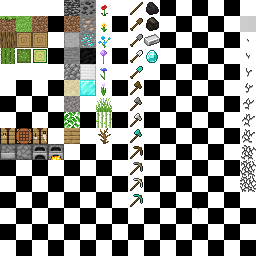
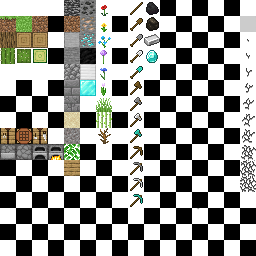
new blocks

Changed region(s): [[0.25, 0.3125, 0.3125, 0.6875]]

diff --git a/Includes/Inventory.hpp b/Includes/Inventory.hpp
@@ -1,8 +1,8 @@
 #ifndef INVENTORY_HPP
 # define INVENTORY_HPP
 
-# define IRECEIPT_SIZE 19
-# define RECEIPT_SIZE 62
+# define IRECEIPT_SIZE 20
+# define RECEIPT_SIZE 66
 
 const int ireceipt[IRECEIPT_SIZE][6] = {
 	{blocks::AIR, blocks::AIR, blocks::AIR, blocks::OAK_LOG, blocks::OAK_PLANKS, 4},
@@ -24,6 +24,7 @@ const int ireceipt[IRECEIPT_SIZE][6] = {
 	{blocks::OAK_PLANKS, blocks::AIR, blocks::OAK_PLANKS, blocks::AIR, blocks::STICK, 4},
 	{blocks::AIR, blocks::OAK_PLANKS, blocks::AIR, blocks::OAK_PLANKS, blocks::STICK, 4},
 	{blocks::OAK_PLANKS, blocks::OAK_PLANKS, blocks::OAK_PLANKS, blocks::OAK_PLANKS, blocks::CRAFTING_TABLE, 1},
+	{blocks::STONE, blocks::STONE, blocks::STONE, blocks::STONE, blocks::STONE_BRICKS, 4},
 };
 
 const int receipt[RECEIPT_SIZE][11] = {
@@ -48,6 +49,11 @@ const int receipt[RECEIPT_SIZE][11] = {
 	{blocks::AIR, blocks::OAK_PLANKS, blocks::OAK_PLANKS, blocks::AIR, blocks::OAK_PLANKS, blocks::OAK_PLANKS, blocks::AIR, blocks::AIR, blocks::AIR, blocks::CRAFTING_TABLE, 1},
 	{blocks::AIR, blocks::AIR, blocks::AIR, blocks::OAK_PLANKS, blocks::OAK_PLANKS, blocks::AIR, blocks::OAK_PLANKS, blocks::OAK_PLANKS, blocks::AIR, blocks::CRAFTING_TABLE, 1},
 	{blocks::AIR, blocks::AIR, blocks::AIR, blocks::AIR, blocks::OAK_PLANKS, blocks::OAK_PLANKS, blocks::AIR, blocks::OAK_PLANKS, blocks::OAK_PLANKS, blocks::CRAFTING_TABLE, 1},
+
+	{blocks::STONE, blocks::STONE, blocks::AIR, blocks::STONE, blocks::STONE, blocks::AIR, blocks::AIR, blocks::AIR, blocks::AIR, blocks::STONE_BRICKS, 4},
+	{blocks::AIR, blocks::STONE, blocks::STONE, blocks::AIR, blocks::STONE, blocks::STONE, blocks::AIR, blocks::AIR, blocks::AIR, blocks::STONE_BRICKS, 4},
+	{blocks::AIR, blocks::AIR, blocks::AIR, blocks::STONE, blocks::STONE, blocks::AIR, blocks::STONE, blocks::STONE, blocks::AIR, blocks::STONE_BRICKS, 4},
+	{blocks::AIR, blocks::AIR, blocks::AIR, blocks::AIR, blocks::STONE, blocks::STONE, blocks::AIR, blocks::STONE, blocks::STONE, blocks::STONE_BRICKS, 4},
 	
 	{blocks::COBBLESTONE, blocks::COBBLESTONE, blocks::COBBLESTONE, blocks::COBBLESTONE, blocks::AIR, blocks::COBBLESTONE, blocks::COBBLESTONE, blocks::COBBLESTONE, blocks::COBBLESTONE, blocks::FURNACE, 1},
 

diff --git a/Includes/Blocks.hpp b/Includes/Blocks.hpp
@@ -13,6 +13,8 @@ enum blocks {
 	SMOOTH_STONE,
 	STONE,
 	COBBLESTONE,
+	STONE_BRICKS,
+	CRACKED_STONE_BRICKS,
 	SAND,
 	GRAVEL,
 	OAK_LEAVES,
@@ -250,6 +252,38 @@ struct Cobblestone : Block {
 			break_time_stone = 0.74f;
 			break_time_iron = 0.5f;
 			break_time_diamond = 0.4f;
+		}
+};
+
+struct StoneBrick : Block {
+	public:
+		StoneBrick() {
+			name = "STONE_BRICK";
+			mined = blocks::STONE_BRICKS;
+			isComposant = true;
+			getProduction = blocks::CRACKED_STONE_BRICKS;
+			byHand = false;
+			needed_tool = WOODEN_PICKAXE;
+			break_time_hand = 7.5f;
+			break_time_wooden = 1.15f;
+			break_time_stone = 0.6f;
+			break_time_iron = 0.4f;
+			break_time_diamond = 0.3f;
+		}
+};
+
+struct CrackedStoneBrick : Block {
+	public:
+		CrackedStoneBrick() {
+			name = "CRACKED_STONE_BRICK";
+			mined = blocks::CRACKED_STONE_BRICKS;
+			byHand = false;
+			needed_tool = WOODEN_PICKAXE;
+			break_time_hand = 7.5f;
+			break_time_wooden = 1.15f;
+			break_time_stone = 0.6f;
+			break_time_iron = 0.4f;
+			break_time_diamond = 0.3f;
 		}
 };
 
@@ -666,7 +700,7 @@ struct Diamond : Block {
 
 const Block s_blocks[112] = {
 	Air(), GrassBlock(), OakLog(), Cactus(), TBD(), TBD(), TBD(), TBD(), CraftingTable(), Furnace(), TBD(), TBD(), TBD(), TBD(), TBD(), TBD(),
-	Bedrock(), Dirt(), SmoothStone(), Stone(), Cobblestone(), Sand(), Gravel(), OakLeaves(), OakPlanks(), TBD(), TBD(), TBD(), TBD(), TBD(), TBD(), TBD(),
+	Bedrock(), Dirt(), SmoothStone(), Stone(), Cobblestone(), StoneBrick(), CrackedStoneBrick(), Sand(), Gravel(), OakLeaves(), OakPlanks(), TBD(), TBD(), TBD(), TBD(), TBD(),
 	CoalOre(), IronOre(), DiamondOre(), CoalBlock(), IronBlock(), DiamondBlock(), TBD(), TBD(), TBD(), TBD(), TBD(), TBD(), TBD(), TBD(), TBD(), TBD(),
 	Poppy(), Dandelion(), BlueOrchid(), Allium(), CornFlower(), PinkTulip(), Grass(), SugarCane(), DeadBush(), TBD(), TBD(), TBD(), TBD(), TBD(), TBD(), TBD(),
 	TBD(), TBD(), TBD(), TBD(), TBD(), TBD(), TBD(), TBD(), TBD(), TBD(), TBD(), TBD(), TBD(), TBD(), Water(), TBD(),

diff --git a/Sources/Chunk.cpp b/Sources/Chunk.cpp
@@ -479,6 +479,9 @@ void Chunk::remove_block( Inventory *inventory, glm::ivec3 pos )
 	// std::cout << "in chunk " << _startX << ", " << _startY << ":rm block " << pos.x << ", " << pos.y << ", " << pos.z << std::endl;
 	// std::cout << "nb displayed blocks before: " << _displayed_blocks << std::endl;
 	int value = _blocks[((pos.x + 1) * (CHUNK_SIZE + 2) + pos.y + 1) * WORLD_HEIGHT + pos.z];
+	if (value >= blocks::CRAFTING_TABLE && value < blocks::BEDROCK) { // oriented blocks
+		_orientations.erase(((pos.x + 1) * (CHUNK_SIZE + 2) + pos.y + 1) * WORLD_HEIGHT + pos.z);
+	}
 	_added.erase(((pos.x + 1) * (CHUNK_SIZE + 2) + pos.y + 1) * WORLD_HEIGHT + pos.z);
 	_removed[((pos.x + 1) * (CHUNK_SIZE + 2) + pos.y + 1) * WORLD_HEIGHT + pos.z] = 1;
 	if (value == blocks::FURNACE) {

diff --git a/Sources/JSON.cpp b/Sources/JSON.cpp
@@ -42,6 +42,7 @@ void OpenGL_Manager::saveWorld( void )
 	catch (std::exception & e) {
 		std::cerr << e.what() << std::endl << "world save failure .. hope you did some snapshot" << std::endl;
 	}
+	_backups.clear();
 }
 
 std::string Camera::saveString( void )
